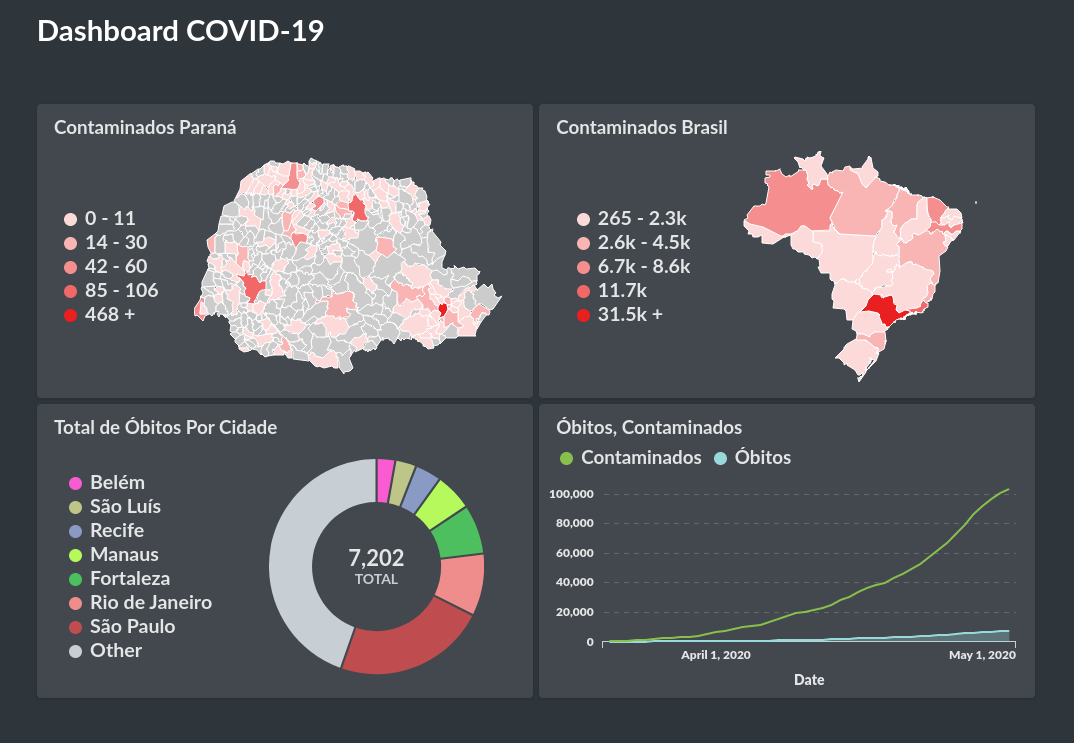
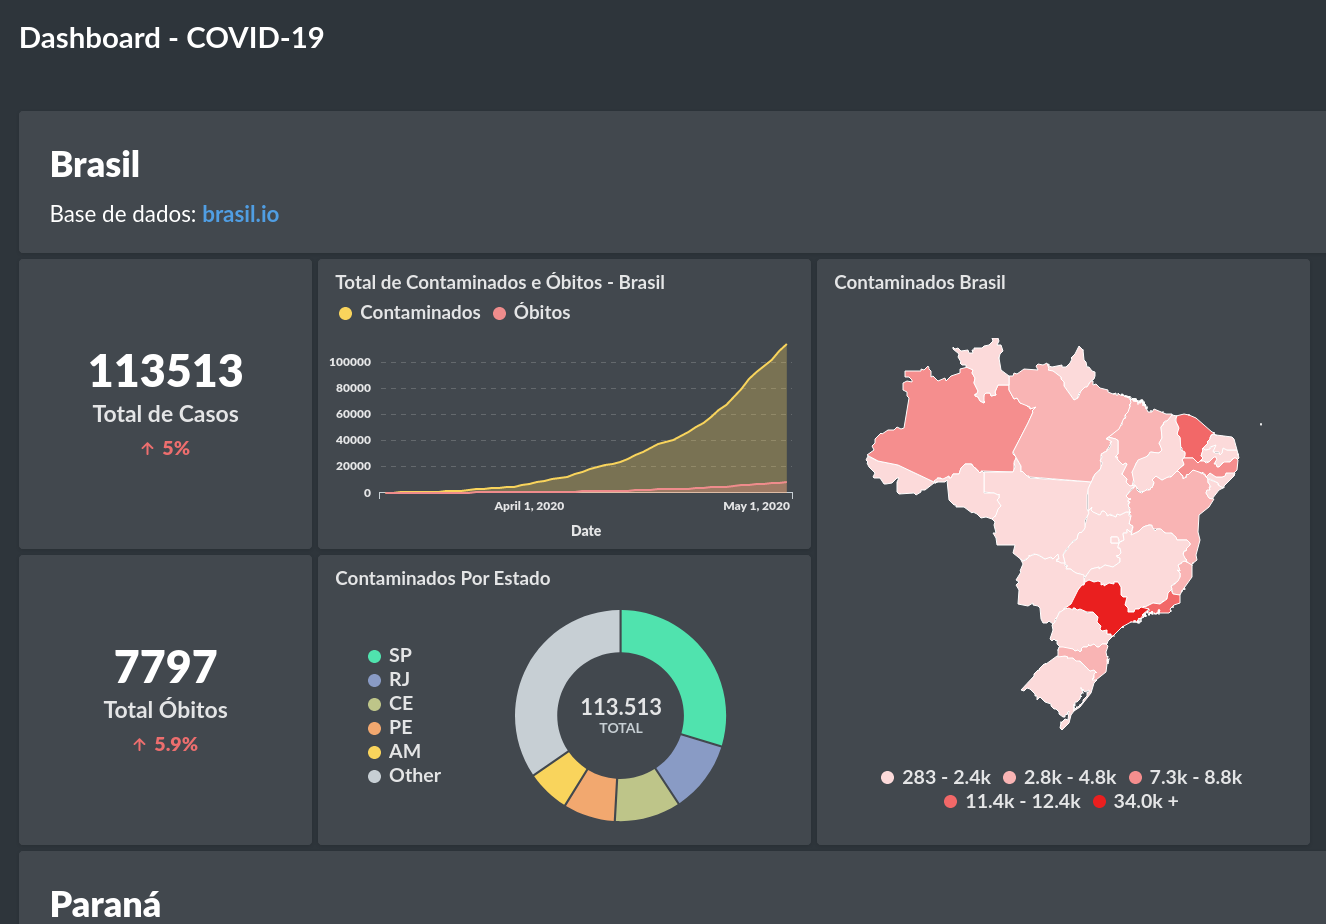
include dashboard url

diff --git a/src/etl.py b/src/etl.py
@@ -44,7 +44,7 @@ def create_table(cursor) -> None:
         );""")
 
 # TODO: Poor solution
-def insert_one(cursor, values):
+def insert_one(cursor, values) -> None:
     for value in values:
         #remove states
         str_ibge_code = str(value['city_ibge_code'])

diff --git a/README.md b/README.md
@@ -4,7 +4,8 @@ Este projeto tem como próposito disponibilizar uma ferramenta de simples acesso
 
 ## Requisitos
 * Python3
-* psycopg2
+    * requests
+    * psycopg2
 * PostgreSQL
 
 ## Como Usar
@@ -37,10 +38,11 @@ $ java -jar metabase.jar
 
 Ao iniciar, configure o banco de dados em `Settings>Admin>databases`.
 
-## Simples Exemplo Dashboard
+## Exemplo Dashboard
 
 ![](images/exemplo.png)
 
+Click a[qui](http://45.76.59.111:3000/public/dashboard/b8d196d8-9468-4dc0-bd24-cb48b69a9dd4) para o acessar o `dashboard`.
 
 ## Contribuições
 
